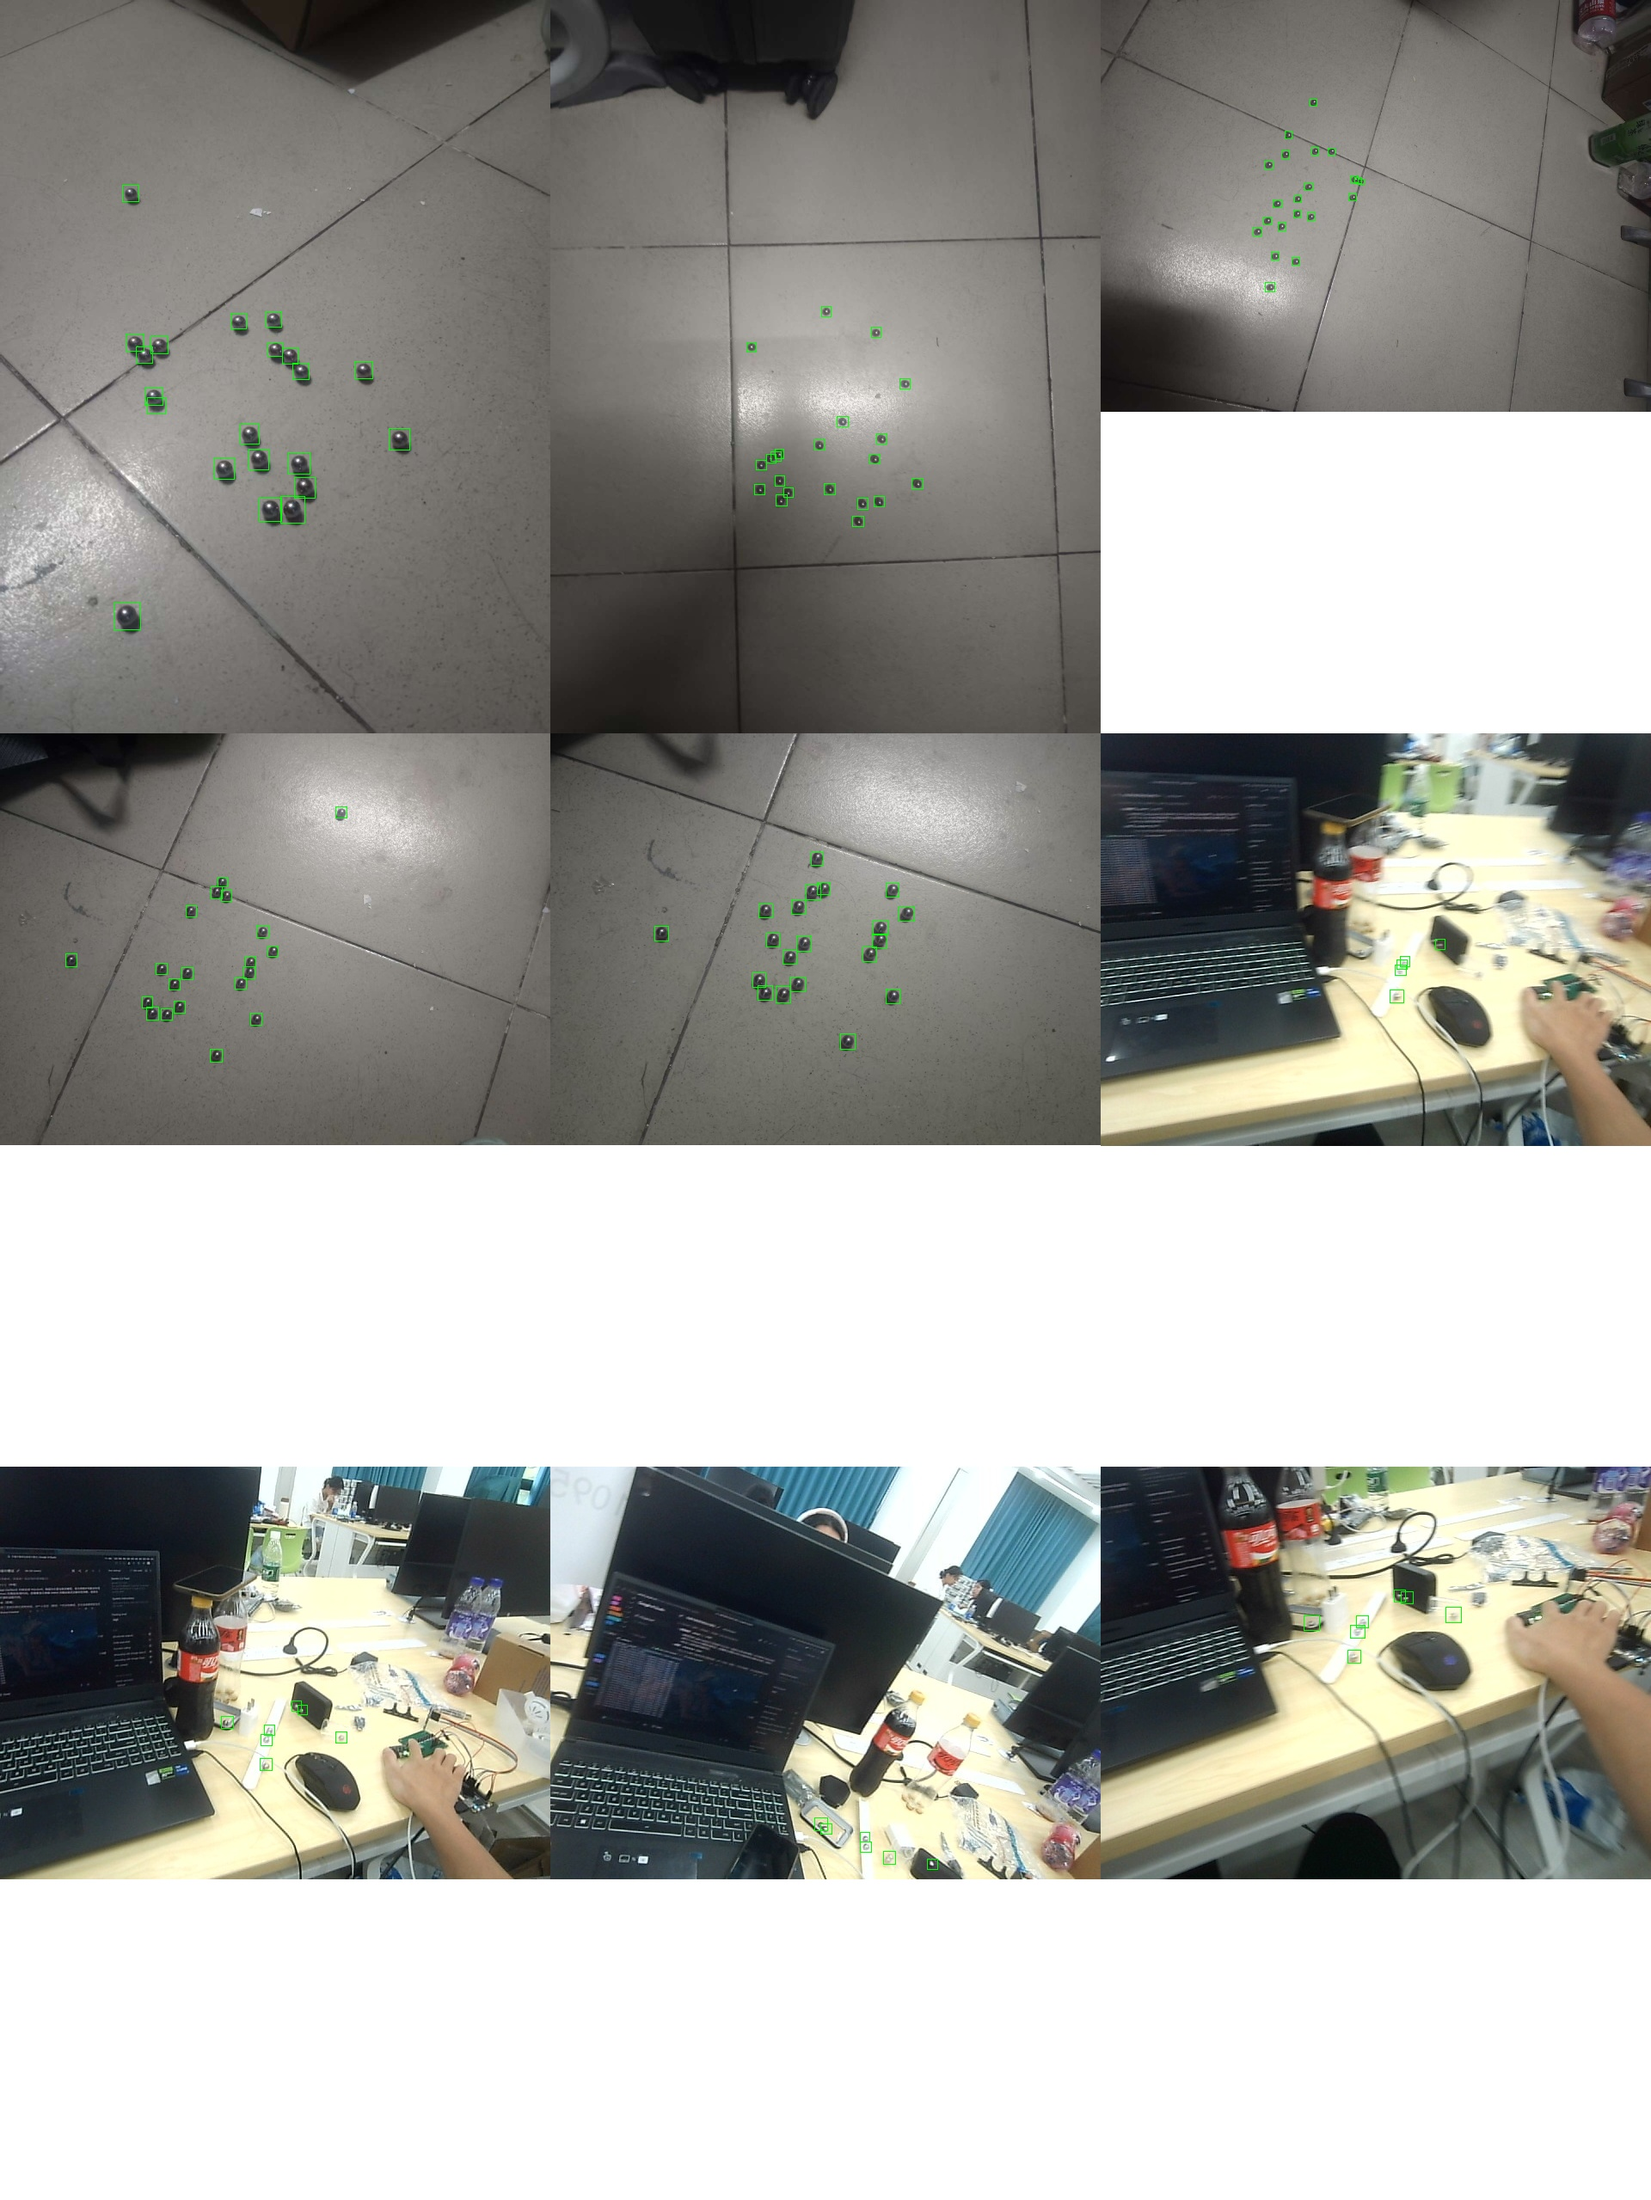
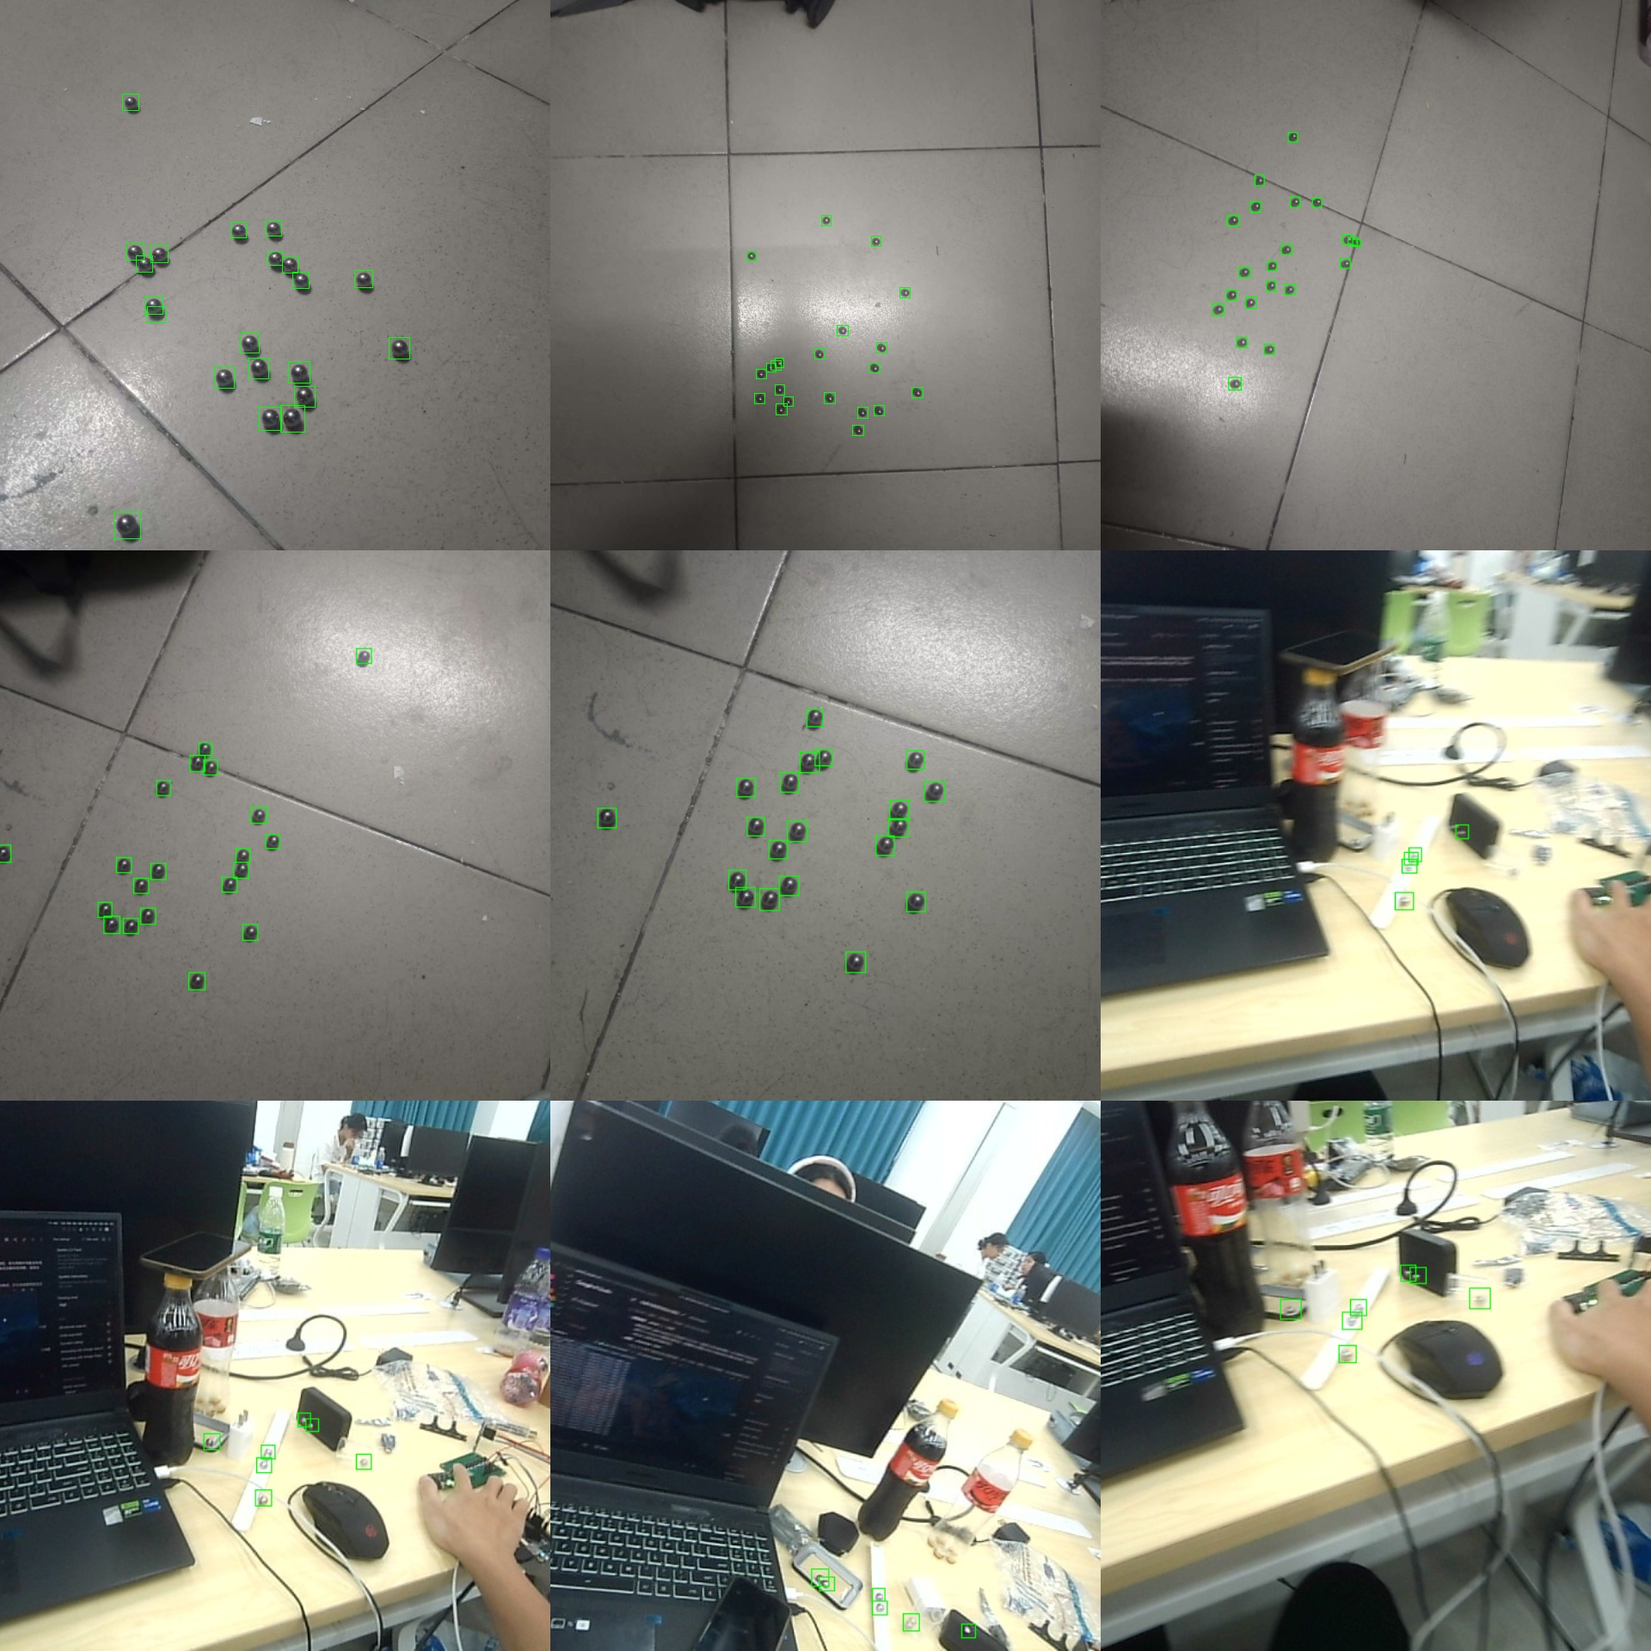
Polish steelball figures: uniform-grid panorama + multi-scene measure panorama with highlight verification

diff --git a/scripts/steelball_measure_panorama.py b/scripts/steelball_measure_panorama.py
@@ -1,0 +1,124 @@
+"""
+钢珠测量全景图生成（论文级多图拼接）
+
+对多张代表性钢珠图做 检测 + 高光校验 + 直径标注，拼成全景：
+  - 每张图：绿色确认框 / 红色疑似框 + 橙色高光点 + 直径标注(px 或 cm)
+  - 覆盖场景：密集多球 / 高光小目标 / 反光校验
+用法：
+  python scripts/steelball_measure_panorama.py \
+      --model applications/steel-ball/results/best.pt \
+      --images list.txt --real-diameter 1.0 --use-highlight \
+      --out results/steelball/measure_panorama.jpg
+"""
+import argparse
+import os
+import sys
+
+import cv2
+import numpy as np
+
+sys.path.insert(0, os.path.dirname(os.path.dirname(os.path.abspath(__file__))))
+
+from scripts.steelball_measure import (
+    detect_steelballs, find_specular_highlight, verify_with_highlight,
+    pixel_diameter_from_bbox, pixel_to_physical,
+)
+
+
+def annotate(img, boxes, use_highlight, calib_k=None):
+    """对一张图做测量标注：框 + 高光点 + 直径标签. 返回标注图."""
+    vis = img.copy()
+    n_confirm = 0
+    for box in boxes:
+        x1, y1, x2, y2, conf = [int(v) for v in box]
+        confirmed = True
+        if use_highlight:
+            confirmed, offset, centroid = verify_with_highlight(img, box)
+            color = (0, 255, 0) if confirmed else (0, 0, 255)
+            gx, gy = int(centroid[0]), int(centroid[1])
+            cv2.circle(vis, (gx, gy), 4, (0, 165, 255), -1)  # 橙色高光点
+        else:
+            color = (0, 255, 0)
+        if confirmed:
+            n_confirm += 1
+        cv2.rectangle(vis, (x1, y1), (x2, y2), color, 2)
+
+        pd = pixel_diameter_from_bbox(box)
+        ph = pixel_to_physical(pd, calib_k)
+        label = f"d={ph:.2f}cm" if ph else f"{pd:.0f}px"
+        cv2.putText(vis, label, (x1, y1 - 5),
+                    cv2.FONT_HERSHEY_SIMPLEX, 0.5, color, 1)
+
+    return vis, n_confirm
+
+
+def make_panorama(model, image_paths, use_highlight, calib_k, cols=3, cell=640):
+    """拼多张测量图为全景（统一格子）."""
+    drawn = []
+    for p in image_paths:
+        img = cv2.imread(p)
+        if img is None:
+            continue
+        boxes = detect_steelballs(model, img)
+        vis, n = annotate(img, boxes, use_highlight, calib_k)
+        # cover 统一格子
+        h, w = vis.shape[:2]
+        scale = max(cell / w, cell / h)
+        nw, nh = int(w * scale), int(h * scale)
+        vis = cv2.resize(vis, (nw, nh))
+        x, y = (nw - cell) // 2, (nh - cell) // 2
+        vis = vis[y:y + cell, x:x + cell]
+        # 底部加说明条
+        bar = np.ones((36, cell, 3), dtype=np.uint8) * 245
+        tag = f"{len(boxes)} balls | {n}/{len(boxes)} highlight-confirmed"
+        cv2.putText(bar, tag, (8, 24), cv2.FONT_HERSHEY_SIMPLEX, 0.55,
+                    (40, 40, 40), 1, cv2.LINE_AA)
+        drawn.append(np.vstack([vis, bar]))
+
+    rows = (len(drawn) + cols - 1) // cols
+    canvas = np.ones(((cell + 36) * rows, cell * cols, 3), dtype=np.uint8) * 255
+    for i, im in enumerate(drawn):
+        r, c = i // cols, i % cols
+        h, w = im.shape[:2]
+        canvas[r * (cell + 36):r * (cell + 36) + h,
+               c * cell:c * cell + w] = im
+    return canvas
+
+
+def main():
+    parser = argparse.ArgumentParser()
+    parser.add_argument("--model", required=True)
+    parser.add_argument("--images", required=True, help="图片列表txt或glob")
+    parser.add_argument("--real-diameter", type=float, default=None, help="真实直径cm(标定)")
+    parser.add_argument("--use-highlight", action="store_true")
+    parser.add_argument("--cols", type=int, default=3)
+    parser.add_argument("--out", default="measure_panorama.jpg")
+    args = parser.parse_args()
+
+    from ultralytics import YOLO
+    model = YOLO(args.model)
+
+    if args.images.endswith(".txt"):
+        paths = [l.strip() for l in open(args.images) if l.strip()]
+    else:
+        import glob
+        paths = sorted(glob.glob(args.images))
+
+    # 标定：用第一张图第一个球估算 cm/px
+    calib_k = None
+    if args.real_diameter:
+        img0 = cv2.imread(paths[0])
+        boxes = detect_steelballs(model, img0)
+        if boxes:
+            pd = pixel_diameter_from_bbox(boxes[0])
+            calib_k = args.real_diameter / pd
+            print(f"标定: {args.real_diameter}cm / {pd:.1f}px → {calib_k:.5f} cm/px")
+
+    canvas = make_panorama(model, paths, args.use_highlight, calib_k, args.cols)
+    os.makedirs(os.path.dirname(args.out) or ".", exist_ok=True)
+    cv2.imwrite(args.out, canvas)
+    print(f"测量全景已保存: {args.out} ({len(paths)}张)")
+
+
+if __name__ == "__main__":
+    main()

diff --git a/scripts/detection_panorama.py b/scripts/detection_panorama.py
@@ -114,8 +114,22 @@ def draw_legend(canvas, num_map, names):
     return np.vstack([canvas, bar])
 
 
-def make_panorama(model, images, mode, names, color, cols=3, max_w=480):
-    """绘制多张检测图并拼网格，返回 (画布, 类别编号映射)."""
+def _fit_cover(img, cell_w, cell_h):
+    """等比缩放到填满格子，再居中裁剪（cover）——横竖图统一、无留白."""
+    h, w = img.shape[:2]
+    scale = max(cell_w / w, cell_h / h)  # cover：按大的缩放
+    nw, nh = max(cell_w, int(w * scale)), max(cell_h, int(h * scale))
+    img = cv2.resize(img, (nw, nh))
+    # 居中裁剪
+    x = (nw - cell_w) // 2
+    y = (nh - cell_h) // 2
+    return img[y:y + cell_h, x:x + cell_w]
+
+
+def make_panorama(model, images, mode, names, color, cols=3, max_w=480,
+                  cell_w=None, cell_h=None):
+    """绘制多张检测图并拼网格，返回 (画布, 类别编号映射).
+    cell_w/cell_h: 若指定则每格统一尺寸(cover裁剪)，否则自适应."""
     det_results = []  # (img, boxes)
     for img_path in images:
         img = cv2.imread(img_path)
@@ -134,14 +148,20 @@ def make_panorama(model, images, mode, names, color, cols=3, max_w=480):
     drawn = [draw_clean(img, boxes, mode, num_map, names, color)
              for img, boxes in det_results]
 
+    if cell_w and cell_h:
+        # 统一格子尺寸（cover 裁剪，无留白）
+        drawn = [_fit_cover(d, cell_w, cell_h) for d in drawn]
+        cell_w = cell_w
+        cell_h = cell_h
+    else:
+        cell_h = max(d.shape[0] for d in drawn)
+        cell_w = max(d.shape[1] for d in drawn)
+
     rows = (len(drawn) + cols - 1) // cols
-    cell_h = max(d.shape[0] for d in drawn)
-    cell_w = max(d.shape[1] for d in drawn)
     canvas = np.ones((cell_h * rows, cell_w * cols, 3), dtype=np.uint8) * 255
     for i, img in enumerate(drawn):
         r, c = i // cols, i % cols
-        h, w = img.shape[:2]
-        canvas[r * cell_h:r * cell_h + h, c * cell_w:c * cell_w + w] = img
+        canvas[r * cell_h:r * cell_h + cell_h, c * cell_w:c * cell_w + cell_w] = img
 
     if mode == "numbered" and names and num_map:
         canvas = draw_legend(canvas, num_map, names)
@@ -173,6 +193,8 @@ def main():
     parser.add_argument("--color", default="green", choices=["green", "orange", "blue"])
     parser.add_argument("--cols", type=int, default=3)
     parser.add_argument("--max-w", type=int, default=640, help="每格缩放宽度px")
+    parser.add_argument("--cell-w", type=int, default=None, help="固定格子宽度px(统一尺寸)")
+    parser.add_argument("--cell-h", type=int, default=None, help="固定格子高度px(统一尺寸)")
     parser.add_argument("--out", default="panorama.jpg")
     args = parser.parse_args()
 
@@ -185,7 +207,8 @@ def main():
         images = sorted(glob.glob(args.images))
     print(f"匹配 {len(images)} 张图片，取前 {min(len(images), 9)} 张")
     model = YOLO(args.model)
-    canvas, num_map = make_panorama(model, images[:9], args.mode, names, color, args.cols, args.max_w)
+    canvas, num_map = make_panorama(model, images[:9], args.mode, names, color,
+                                    args.cols, args.max_w, args.cell_w, args.cell_h)
     cv2.imwrite(args.out, canvas)
     print(f"全景图已保存: {args.out}")
 

diff --git a/README.md b/README.md
@@ -83,9 +83,9 @@
 
 ![钢珠检测效果](results/steelball/detection_panorama.jpg)
 
-**直径测量可视化**（检测框 + 直径标注 + 中心点 + 高光点）：
+**直径测量可视化**（多场景：密集多球 / 高光小目标；绿框=高光确认，红框=疑似误检，橙色点=高光，标注=像素/物理直径）：
 
-![钢珠测量效果](results/steelball/measure_demo.jpg)
+![钢珠测量效果](results/steelball/measure_panorama.jpg)
 
 **训练曲线**：
 
